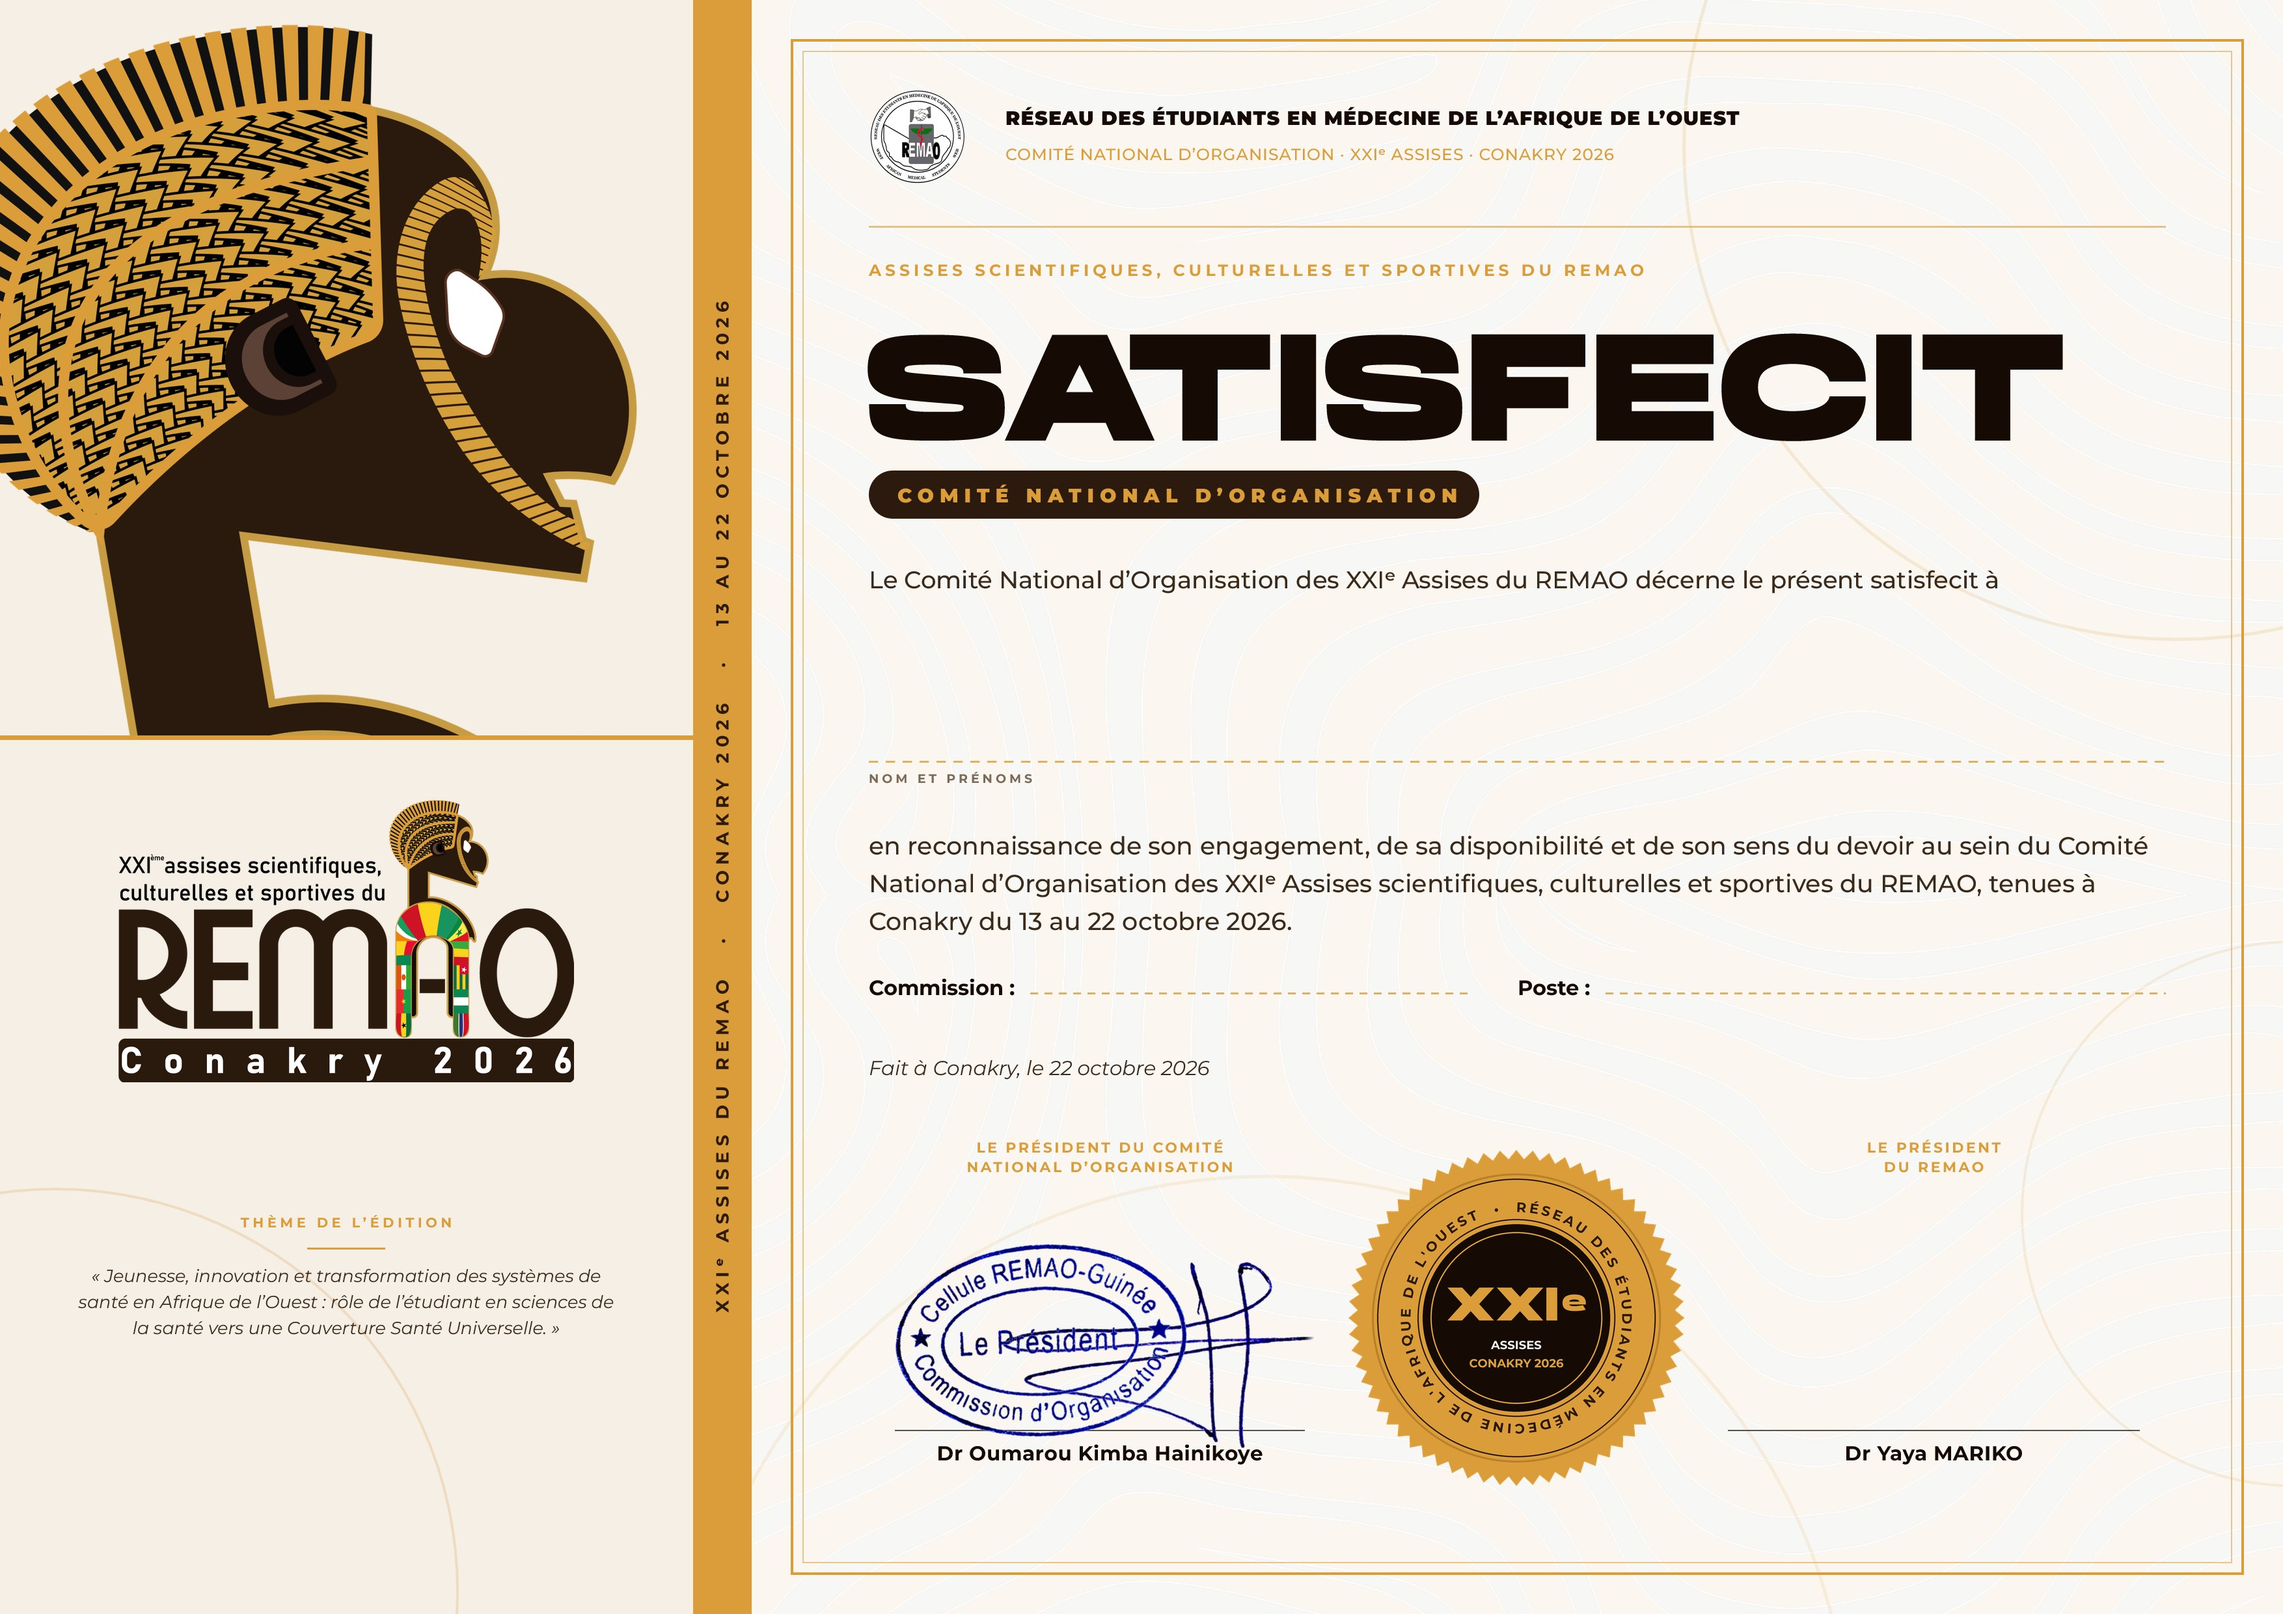
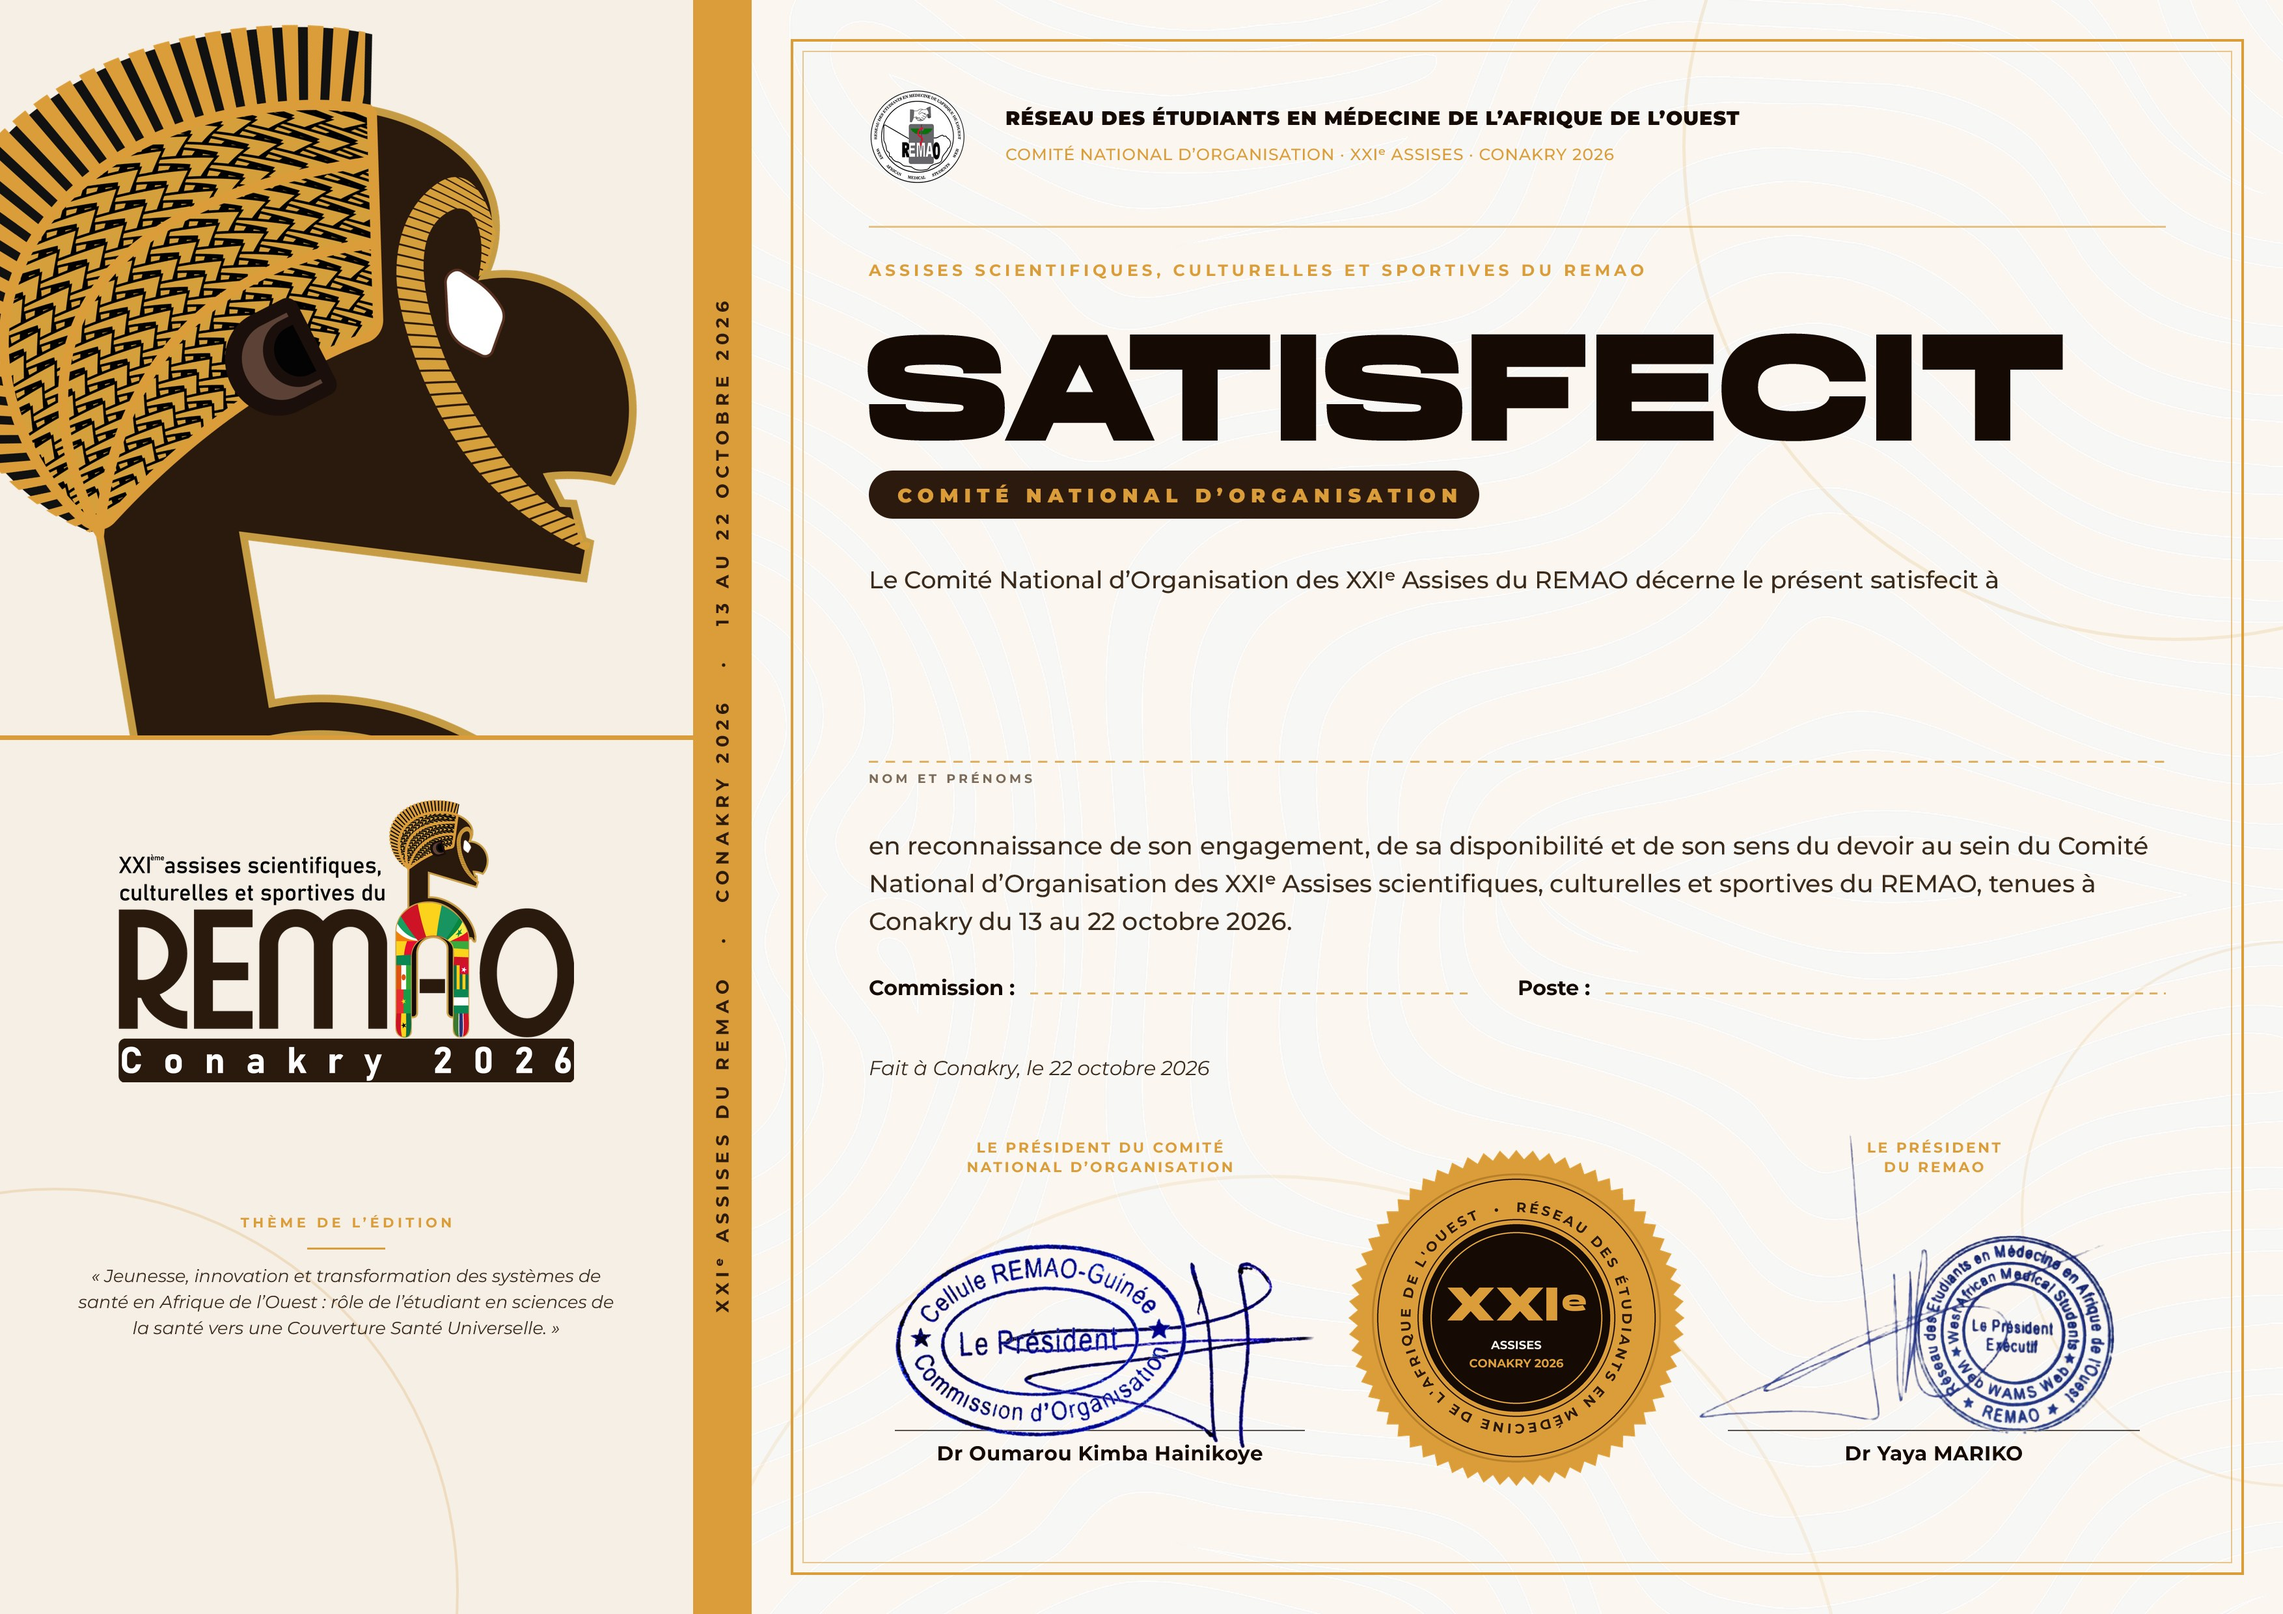
Satisfecit : signature et cachet du President du REMAO (Dr Yaya MARIKO)

Changed region(s): [[0.7768, 0.7452, 0.9322, 0.9004]]

diff --git a/satisfecit/index.html b/satisfecit/index.html
@@ -145,9 +145,9 @@
   var NOM = { x: 1365, base: 1137, corps: 180, max: 1933 };
   var CHAMP = { base: 1516, corps: 40 };
   var MODELES = {
-    participant: { titre: "Satisfecit de participation", fond: "fond-participant.jpg",
+    participant: { titre: "Satisfecit de participation", fond: "fond-participant.jpg?v=2",
       champs: [{ cle: "pays", x: 1462, max: 1830 }] },
-    cno: { titre: "Satisfecit du Comité National d'Organisation", fond: "fond-cno.jpg",
+    cno: { titre: "Satisfecit du Comité National d'Organisation", fond: "fond-cno.jpg?v=2",
       champs: [{ cle: "commission", x: 1592, max: 650 }, { cle: "poste", x: 2478, max: 840 }] }
   };
 
